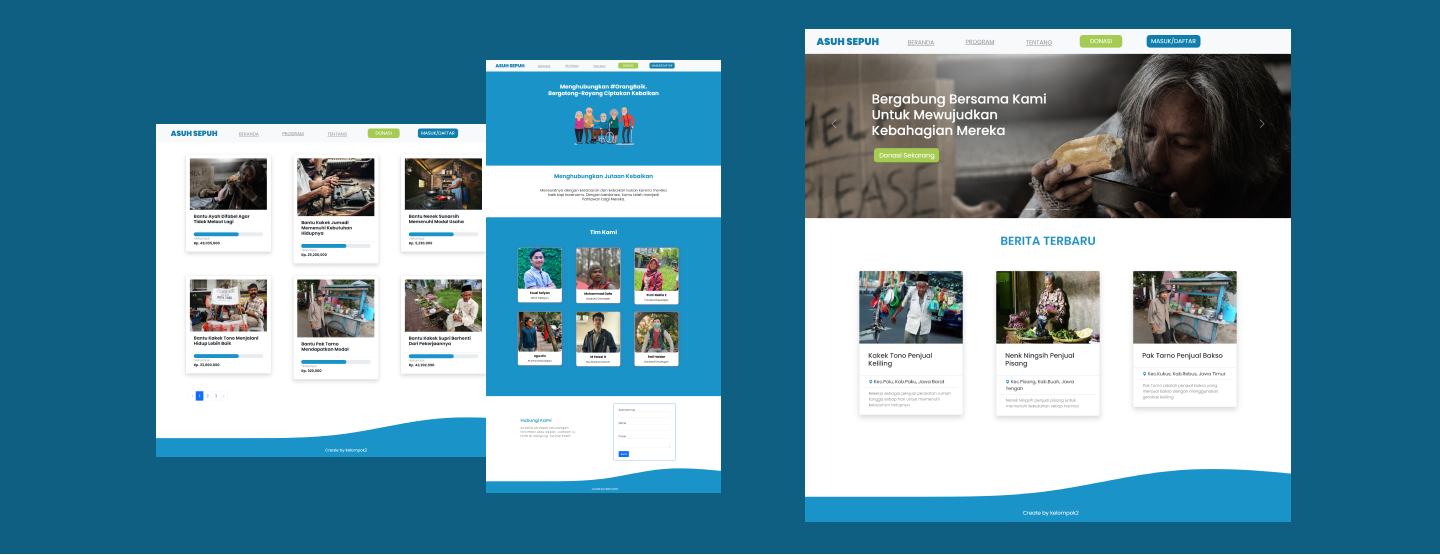
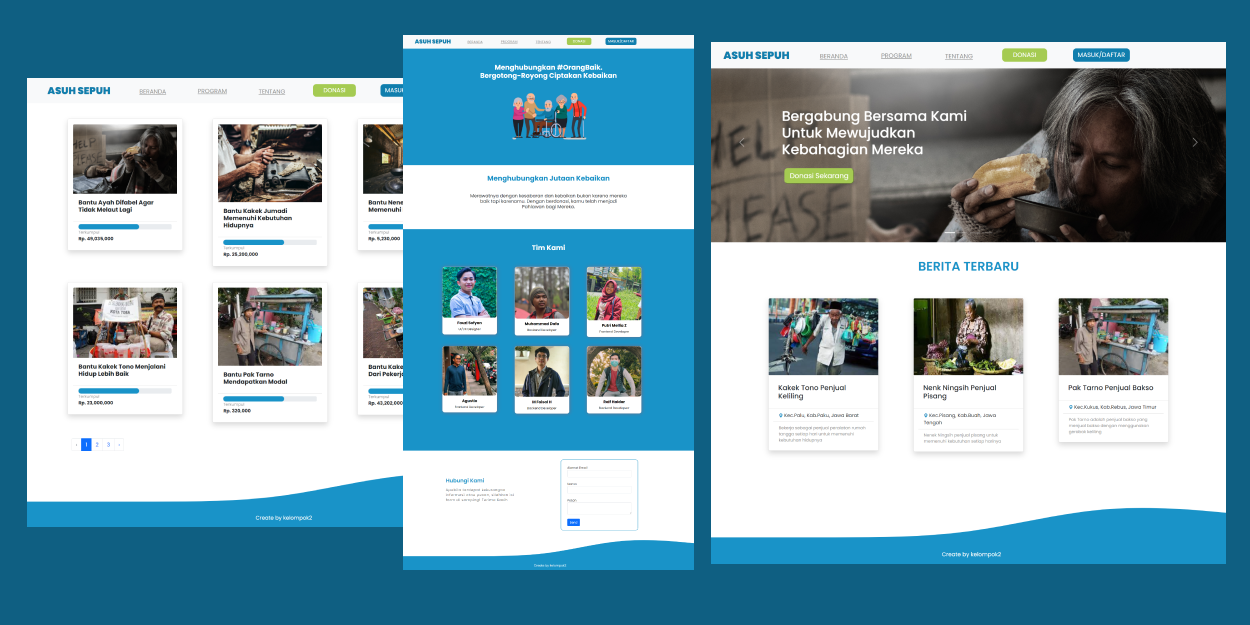
create new project features

diff --git a/index.html b/index.html
@@ -99,11 +99,63 @@
 
     <section id="projects" class="container text-center">
         <h1>Projects</h1>
+        <div>
+            <p class="sect-project">Website</p>
+            <hr>
+            <div class="owl-carousel owl-theme" id="slideProjectWeb">
+                <div class="box-p">
+                    <img src="/assets/portfolio/asuhsepuh.png" alt="">
+                    <p class="title-project">Sepuh <span class="sepuhasuh">Asuh</span></p>
+                    <a href="https://github.com/mfaisalh12/sepuh-asuh.git" class="icon-project"><i
+                            class="fab fa-github fa-2x"></i></a>
+                </div>
+                <div class="box-p">
+                    <img src="/assets/portfolio/convert.png" alt="">
+                    <p class="title-project">Konversi <span class="conversi">Angka</span></p>
+                    <a href="https://github.com/mfaisalh12/number-convertion.git" class="icon-project"><i
+                            class="fab fa-github fa-2x"></i></a>
+                    <a href="https://mfaisalh12.github.io/number-convertion/" class="icon-project"><i
+                            class="fas fa-globe fa-2x"></i></a>
+                </div>
+                <div class="box-p">
+                    <img src="/assets/portfolio/bmi.png" alt="">
+                    <p class="title-project">BMI <span class="bmi">Calculator</span></p>
+                    <a href="https://github.com/mfaisalh12/bmi-calculator-frontend.git" class="icon-project"><i
+                            class="fab fa-github fa-2x"></i></a>
+                    <a href="https://mfaisalh12.github.io/bmi-calculator-frontend/" class="icon-project"><i
+                            class="fas fa-globe fa-2x"></i></a>
+                </div>
+            </div>
+        </div>
+        <div id="ui">
+            <p class="sect-project">UI/UX</p>
+            <hr>
+            <div class="owl-carousel owl-theme" id="slideProjectUi">
+                <div class="box-p">
+                    <img src="/assets/portfolio/tumbas.png" alt="">
+                    <p class="title-project">LandingPage <span class="tumbas">Tumbas</span></p>
+                    <a href="https://www.figma.com/file/axNWzbSCpg29MLSXqvkAqN/Design-Toko-Perabotan"
+                        class="icon-project"><i class="fab fa-figma fa-2x"></i></i></a>
+                </div>
+                <div class="box-p">
+                    <img src="/assets/portfolio/bimbel.png" alt="">
+                    <p class="title-project">Bimbel <span class="bimbel">Online</span></p>
+                    <a href="https://www.figma.com/file/KfDoX29t0IeZuOKs7fnlhj/Bimbel-Online?node-id=0%3A1"
+                        class="icon-project"><i class="fab fa-figma fa-2x"></i></i></a>
+                </div>
+                <div class="box-p">
+                    <img src="/assets/portfolio/coffee.png" alt="">
+                    <p class="title-project">Coffee <span class="coffee">Shop</span></p>
+                    <a href="https://www.figma.com/file/NyQDFJVDZzR2A9fnbmdRXr/Coffee-Shop-UI" class="icon-project"><i
+                            class="fab fa-figma fa-2x"></i></i></a>
+                </div>
+            </div>
+        </div>
     </section>
 
     <section id="certificates" class="container">
         <h1 class="certificate-head text-center">Certificates</h1>
-        <div class="owl-carousel owl-theme">
+        <div class="owl-carousel owl-theme" id="slideCertificate">
             <div class="row">
                 <div class="col text-certificate">
                     <h1 class="title-certificate">Membangun Line Front-end Framework (LIFF)</h1>
@@ -184,27 +236,7 @@
     <script src="https://cdnjs.cloudflare.com/ajax/libs/OwlCarousel2/2.3.4/owl.carousel.min.js"
         integrity="sha512-bPs7Ae6pVvhOSiIcyUClR7/q2OAsRiovw4vAkX+zJbw3ShAeeqezq50RIIcIURq7Oa20rW2n2q+fyXBNcU9lrw=="
         crossorigin="anonymous"></script>
-    <script>
-        $('.owl-carousel').owlCarousel({
-            loop: true,
-            margin: 20,
-            autoplay: true,
-            autoplayTimeout: 4000,
-            nav: false,
-            responsive: {
-                0: {
-                    items: 1
-                },
-                600: {
-                    items: 1
-                },
-                1000: {
-                    items: 1
-                }
-            }
-        })
-        html
-    </script>
+    <script src="/script.js"></script>
 
 </body>
 

diff --git a/script.js b/script.js
@@ -1,0 +1,63 @@
+$(document).ready(function () {
+	let slideProject1 = $('#slideProjectWeb');
+	let slideProject2 = $('#slideProjectUi');
+	let slideCertificate = $('#slideCertificate');
+
+	slideProject1.owlCarousel({
+		loop: true,
+		margin: 100,
+		responsiveClass: true,
+		autoplay: true,
+		autoplayTimeout: 4000,
+		dots: false,
+		responsive: {
+			0: {
+				items: 1,
+			},
+			600: {
+				items: 2,
+			},
+			1000: {
+				items: 2,
+			},
+		},
+	});
+
+	slideProject2.owlCarousel({
+		loop: true,
+		margin: 100,
+		responsiveClass: true,
+		autoplay: true,
+		autoplayTimeout: 4000,
+		dots: false,
+		responsive: {
+			0: {
+				items: 1,
+			},
+			600: {
+				items: 2,
+			},
+			1000: {
+				items: 2,
+			},
+		},
+	});
+
+	slideCertificate.owlCarousel({
+		loop: true,
+		autoplay: true,
+		autoplayTimeout: 3000,
+		nav: false,
+		responsive: {
+			0: {
+				items: 1,
+			},
+			600: {
+				items: 1,
+			},
+			1000: {
+				items: 1,
+			},
+		},
+	});
+});

diff --git a/style.css b/style.css
@@ -284,6 +284,65 @@ a {
 	font-size: 2.2em;
 }
 
+/* Section Project */
+#projects {
+	margin-top: 60px;
+	padding-top: 40px;
+	background: var(--bg-dark-light);
+}
+hr {
+	border-color: var(--primary-color);
+}
+.sect-project {
+	margin: 0;
+	text-align: left;
+	font-weight: 500;
+	font-size: 1.2em;
+}
+#slideProjectUi,
+#slideProjectWeb {
+	margin-top: 20px;
+}
+.box-p {
+	margin: auto;
+	padding: 5%;
+	flex-wrap: wrap;
+	width: 100%;
+	background: var(--bg);
+}
+.title-project {
+	font-weight: 700;
+	font-size: 1.2em;
+	margin: 1.5em 0;
+}
+.sepuhasuh {
+	color: #2bbfff;
+}
+.conversi {
+	color: #95ff2b;
+}
+.bmi {
+	color: #fa26a0;
+}
+.tumbas {
+	color: #fecf6d;
+}
+.bimbel {
+	color: #68e5ff;
+}
+.coffee {
+	color: #9b7e7e;
+}
+.icon-project {
+	margin: 0 2%;
+}
+.icon-project:hover {
+	color: var(--primary-color);
+}
+#ui {
+	margin: 4em 0;
+}
+
 /* Section Certificates */
 .certificate-head {
 	font-size: 2.2em;
